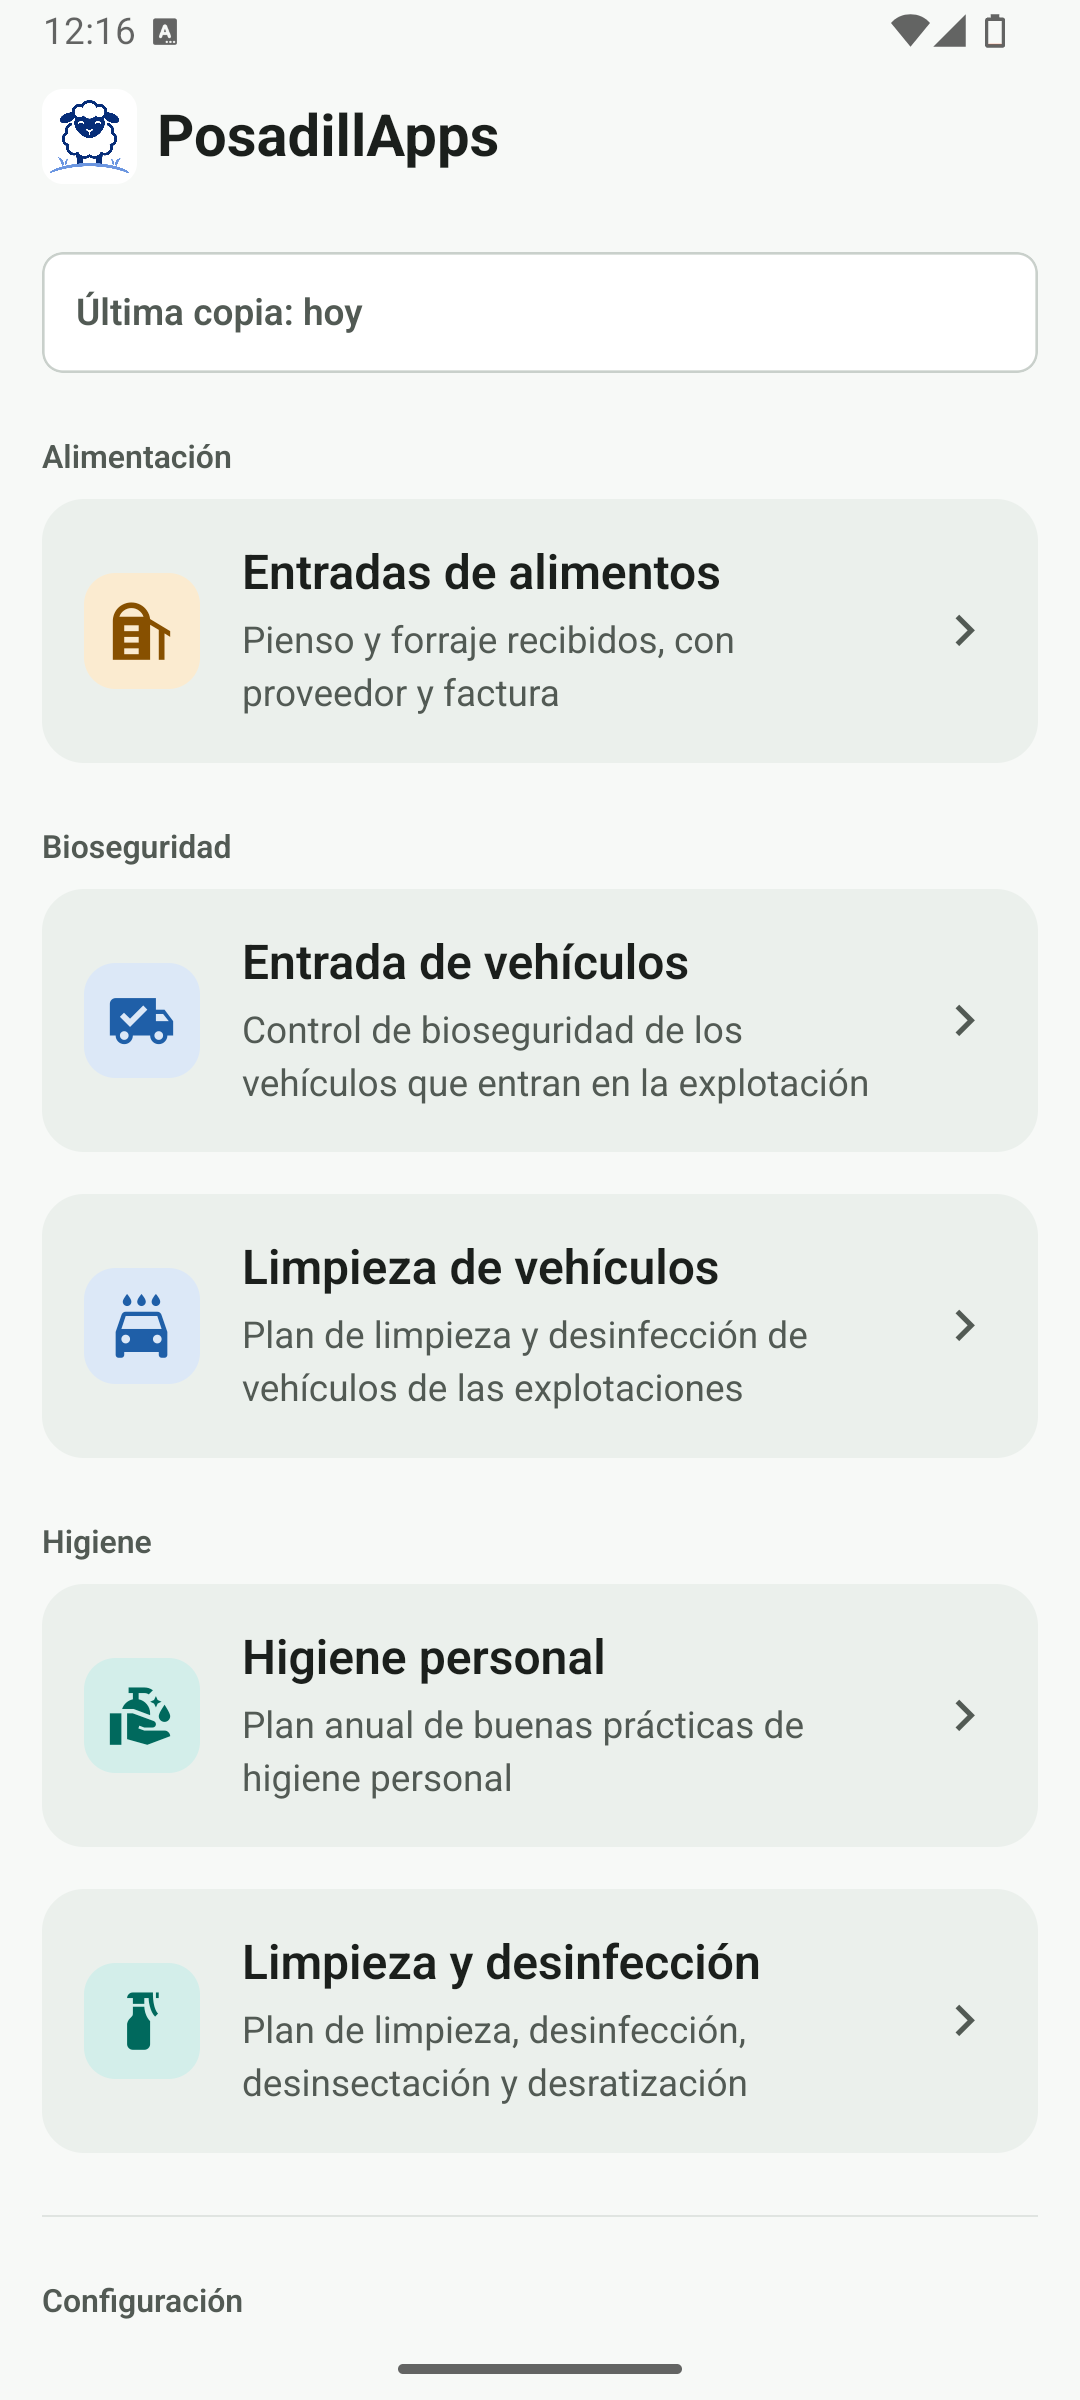
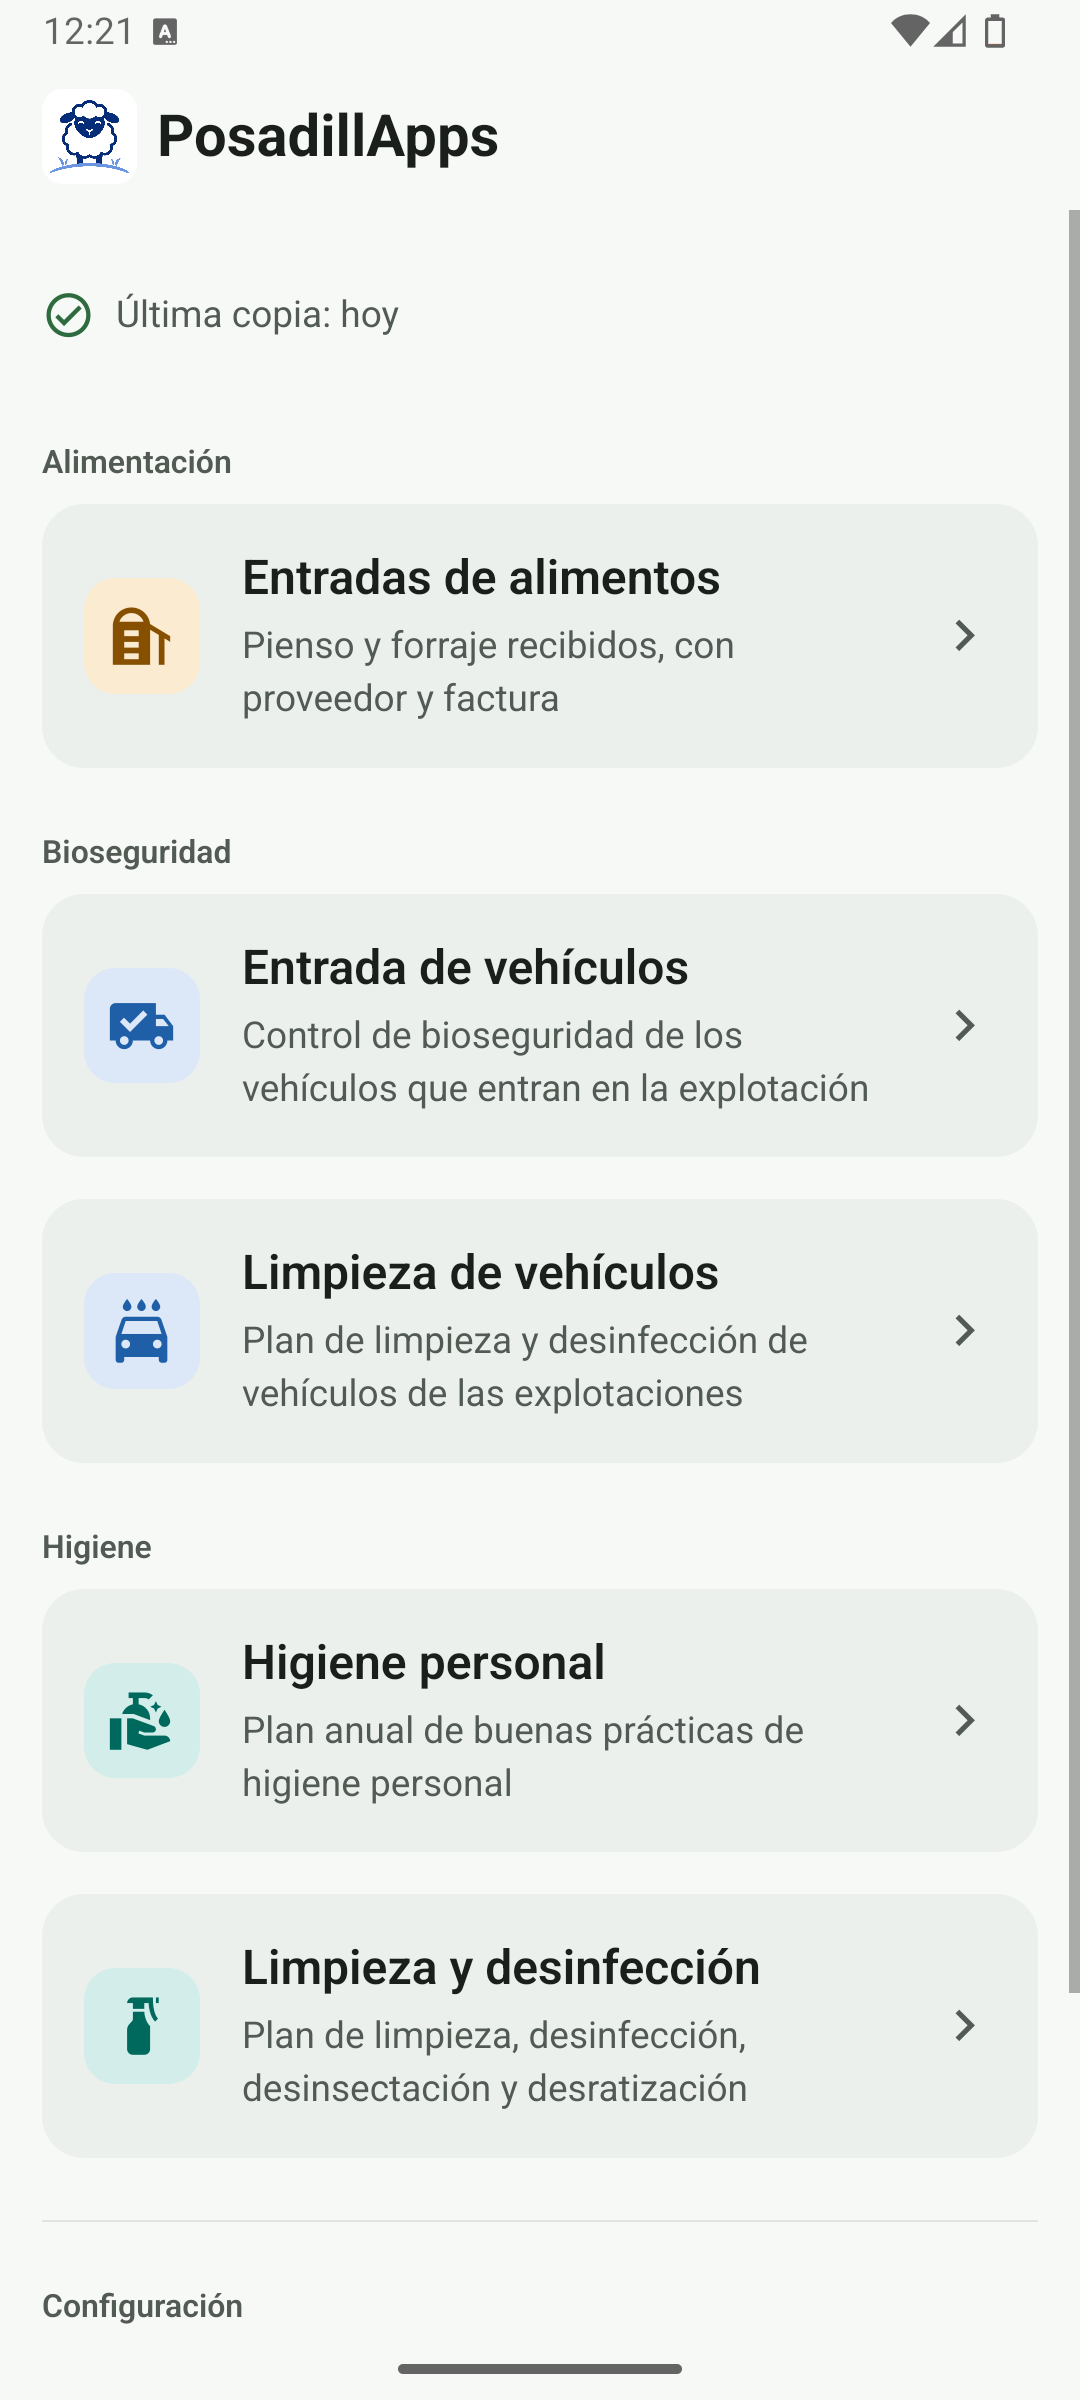
Renueva la pantalla de inicio: encabezados de grupo, Configuración ligera y aviso de copia por nivel

diff --git a/src/app/index.tsx b/src/app/index.tsx
@@ -1,5 +1,6 @@
+import { MaterialCommunityIcons } from '@expo/vector-icons';
 import { router } from 'expo-router';
-import { SectionList, StyleSheet, Text, View } from 'react-native';
+import { Pressable, SectionList, StyleSheet, Text, View } from 'react-native';
 
 import { BackupReminder } from '@/core/backup/BackupReminder';
 import { settingsEntries, type HomeEntry } from '@/core/settingsEntries';
@@ -8,6 +9,7 @@ import {
   groupByCategory,
   ModuleCard,
   Screen,
+  SectionHeader,
   spacing,
   typography,
   useThemeColors,
@@ -15,6 +17,29 @@ import {
 import { modules } from '@/modules/registry';
 
 const sections = groupByCategory<HomeEntry>([...modules, ...settingsEntries]);
+
+/** The app's own screens: a light row, so they weigh less than the record modules. */
+function SettingsRow({ entry }: { entry: HomeEntry }) {
+  const colors = useThemeColors();
+  return (
+    <Pressable
+      accessibilityRole="button"
+      accessibilityLabel={entry.description ? `${entry.title}. ${entry.description}` : entry.title}
+      onPress={() => router.push(entry.route)}
+      android_ripple={{ color: colors.ripple }}
+      style={styles.settingsRow}
+    >
+      <MaterialCommunityIcons name={entry.icon} size={24} color={colors.category.settings.accent} />
+      <View style={styles.settingsTexts}>
+        <Text style={[typography.bodyStrong, { color: colors.text }]}>{entry.title}</Text>
+        {entry.description ? (
+          <Text style={[typography.caption, { color: colors.textMuted }]}>{entry.description}</Text>
+        ) : null}
+      </View>
+      <MaterialCommunityIcons name="chevron-right" size={24} color={colors.textMuted} />
+    </Pressable>
+  );
+}
 
 export default function HomeScreen() {
   const colors = useThemeColors();
@@ -46,21 +71,25 @@ export default function HomeScreen() {
               ],
             ]}
           >
-            <Text accessibilityRole="header" style={[typography.label, { color: colors.textMuted }]}>
-              {section.title}
-            </Text>
+            <SectionHeader title={section.title} />
           </View>
         )}
-        renderItem={({ item }) => (
-          <ModuleCard
-            title={item.title}
-            subtitle={item.description}
-            icon={item.icon}
-            category={item.category}
-            onPress={() => router.push(item.route)}
-          />
-        )}
-        ItemSeparatorComponent={() => <View style={styles.separator} />}
+        renderItem={({ item }) =>
+          item.category === 'settings' ? (
+            <SettingsRow entry={item} />
+          ) : (
+            <ModuleCard
+              title={item.title}
+              subtitle={item.description}
+              icon={item.icon}
+              category={item.category}
+              onPress={() => router.push(item.route)}
+            />
+          )
+        }
+        ItemSeparatorComponent={({ section }) =>
+          section.category === 'settings' ? null : <View style={styles.separator} />
+        }
       />
     </Screen>
   );
@@ -69,10 +98,18 @@ export default function HomeScreen() {
 const styles = StyleSheet.create({
   list: { padding: spacing.md, paddingBottom: spacing.xl },
   header: { gap: spacing.md },
-  sectionHeader: { paddingTop: spacing.lg, paddingBottom: spacing.sm },
+  sectionHeader: { paddingTop: spacing.sm },
   settingsHeader: {
     marginTop: spacing.lg,
     borderTopWidth: StyleSheet.hairlineWidth,
   },
   separator: { height: spacing.md },
+  settingsRow: {
+    flexDirection: 'row',
+    alignItems: 'center',
+    gap: spacing.md,
+    minHeight: 56,
+    paddingVertical: spacing.sm,
+  },
+  settingsTexts: { flex: 1, gap: spacing.xxs },
 });

diff --git a/src/core/backup/BackupReminder.tsx b/src/core/backup/BackupReminder.tsx
@@ -1,3 +1,4 @@
+import { MaterialCommunityIcons } from '@expo/vector-icons';
 import { router, useFocusEffect } from 'expo-router';
 import { useCallback, useState } from 'react';
 import { Pressable, StyleSheet, Text } from 'react-native';
@@ -5,9 +6,12 @@ import { Pressable, StyleSheet, Text } from 'react-native';
 import { db } from '../db';
 import { describeLastBackup, type LastBackupStatus } from '../settings/lastBackup';
 import { getLastBackupAt } from '../settings/repository';
-import { radius, spacing, typography, useThemeColors } from '../ui';
+import { Notice, spacing, typography, useThemeColors } from '../ui';
 
-/** Home banner with the date of the last backup; highlighted when overdue. */
+/**
+ * Home reminder with the date of the last backup: a quiet line while it is
+ * recent, a warning when it is old and an alert when there has never been one.
+ */
 export function BackupReminder() {
   const colors = useThemeColors();
   const [status, setStatus] = useState<LastBackupStatus | null>(null);
@@ -20,29 +24,32 @@ export function BackupReminder() {
 
   if (!status) return null;
 
+  const openBackup = () => router.push('/backup');
+
+  if (status.level !== 'ok') {
+    return (
+      <Notice
+        tone={status.level === 'never' ? 'danger' : 'warning'}
+        message={status.text}
+        action={{ label: 'Haz una ahora', onPress: openBackup }}
+      />
+    );
+  }
+
   return (
     <Pressable
       accessibilityRole="button"
       accessibilityHint="Abre la copia de seguridad"
-      onPress={() => router.push('/backup')}
-      style={({ pressed }) => [
-        styles.banner,
-        {
-          borderColor: status.overdue ? colors.danger : colors.outlineVariant,
-          backgroundColor: colors.surface,
-          opacity: pressed ? 0.7 : 1,
-        },
-      ]}
+      onPress={openBackup}
+      android_ripple={{ color: colors.ripple }}
+      style={styles.row}
     >
-      <Text style={[styles.text, { color: status.overdue ? colors.danger : colors.textMuted }]}>
-        {status.text}
-        {status.overdue ? ' · Haz una ahora' : ''}
-      </Text>
+      <MaterialCommunityIcons name="check-circle-outline" size={20} color={colors.primary} />
+      <Text style={[typography.caption, { color: colors.textMuted }]}>{status.text}</Text>
     </Pressable>
   );
 }
 
 const styles = StyleSheet.create({
-  banner: { borderWidth: 1, borderRadius: radius.sm, padding: spacing.sm + 4 },
-  text: typography.captionStrong,
+  row: { flexDirection: 'row', alignItems: 'center', gap: spacing.sm, minHeight: 48 },
 });

diff --git a/src/core/settings/lastBackup.ts b/src/core/settings/lastBackup.ts
@@ -1,11 +1,14 @@
 /** Days without a backup after which the reminder is highlighted. */
 export const BACKUP_OVERDUE_DAYS = 30;
 
-export type LastBackupStatus = { text: string; overdue: boolean };
+/** `never` and `overdue` are highlighted on the home screen; `never` is the most urgent. */
+export type LastBackupLevel = 'ok' | 'overdue' | 'never';
+
+export type LastBackupStatus = { text: string; level: LastBackupLevel };
 
 /** Human text for the home reminder, counting calendar days in local time. */
 export function describeLastBackup(lastBackupAt: string | null, now: Date = new Date()): LastBackupStatus {
-  if (!lastBackupAt) return { text: 'Nunca has hecho una copia de seguridad', overdue: true };
+  if (!lastBackupAt) return { text: 'Nunca has hecho una copia de seguridad', level: 'never' };
 
   const days = calendarDaysBetween(new Date(lastBackupAt), now);
   let when: string;
@@ -13,7 +16,7 @@ export function describeLastBackup(lastBackupAt: string | null, now: Date = new 
   else if (days === 1) when = 'ayer';
   else when = `hace ${days} días`;
 
-  return { text: `Última copia: ${when}`, overdue: days > BACKUP_OVERDUE_DAYS };
+  return { text: `Última copia: ${when}`, level: days > BACKUP_OVERDUE_DAYS ? 'overdue' : 'ok' };
 }
 
 function calendarDaysBetween(from: Date, to: Date): number {

diff --git a/src/core/settings/__tests__/settings.test.ts b/src/core/settings/__tests__/settings.test.ts
@@ -12,18 +12,18 @@ describe('describeLastBackup', () => {
   it('warns when there has never been a backup', () => {
     expect(describeLastBackup(null, now)).toEqual({
       text: 'Nunca has hecho una copia de seguridad',
-      overdue: true,
+      level: 'never',
     });
   });
 
   it.each([
-    [0, 'Última copia: hoy', false],
-    [1, 'Última copia: ayer', false],
-    [12, 'Última copia: hace 12 días', false],
-    [30, 'Última copia: hace 30 días', false],
-    [31, 'Última copia: hace 31 días', true],
-  ])('%p days ago', (days, text, overdue) => {
-    expect(describeLastBackup(daysAgo(days), now)).toEqual({ text, overdue });
+    [0, 'Última copia: hoy', 'ok'],
+    [1, 'Última copia: ayer', 'ok'],
+    [12, 'Última copia: hace 12 días', 'ok'],
+    [30, 'Última copia: hace 30 días', 'ok'],
+    [31, 'Última copia: hace 31 días', 'overdue'],
+  ])('%p days ago', (days, text, level) => {
+    expect(describeLastBackup(daysAgo(days), now)).toEqual({ text, level });
   });
 
   it('counts calendar days, not 24-hour periods', () => {
